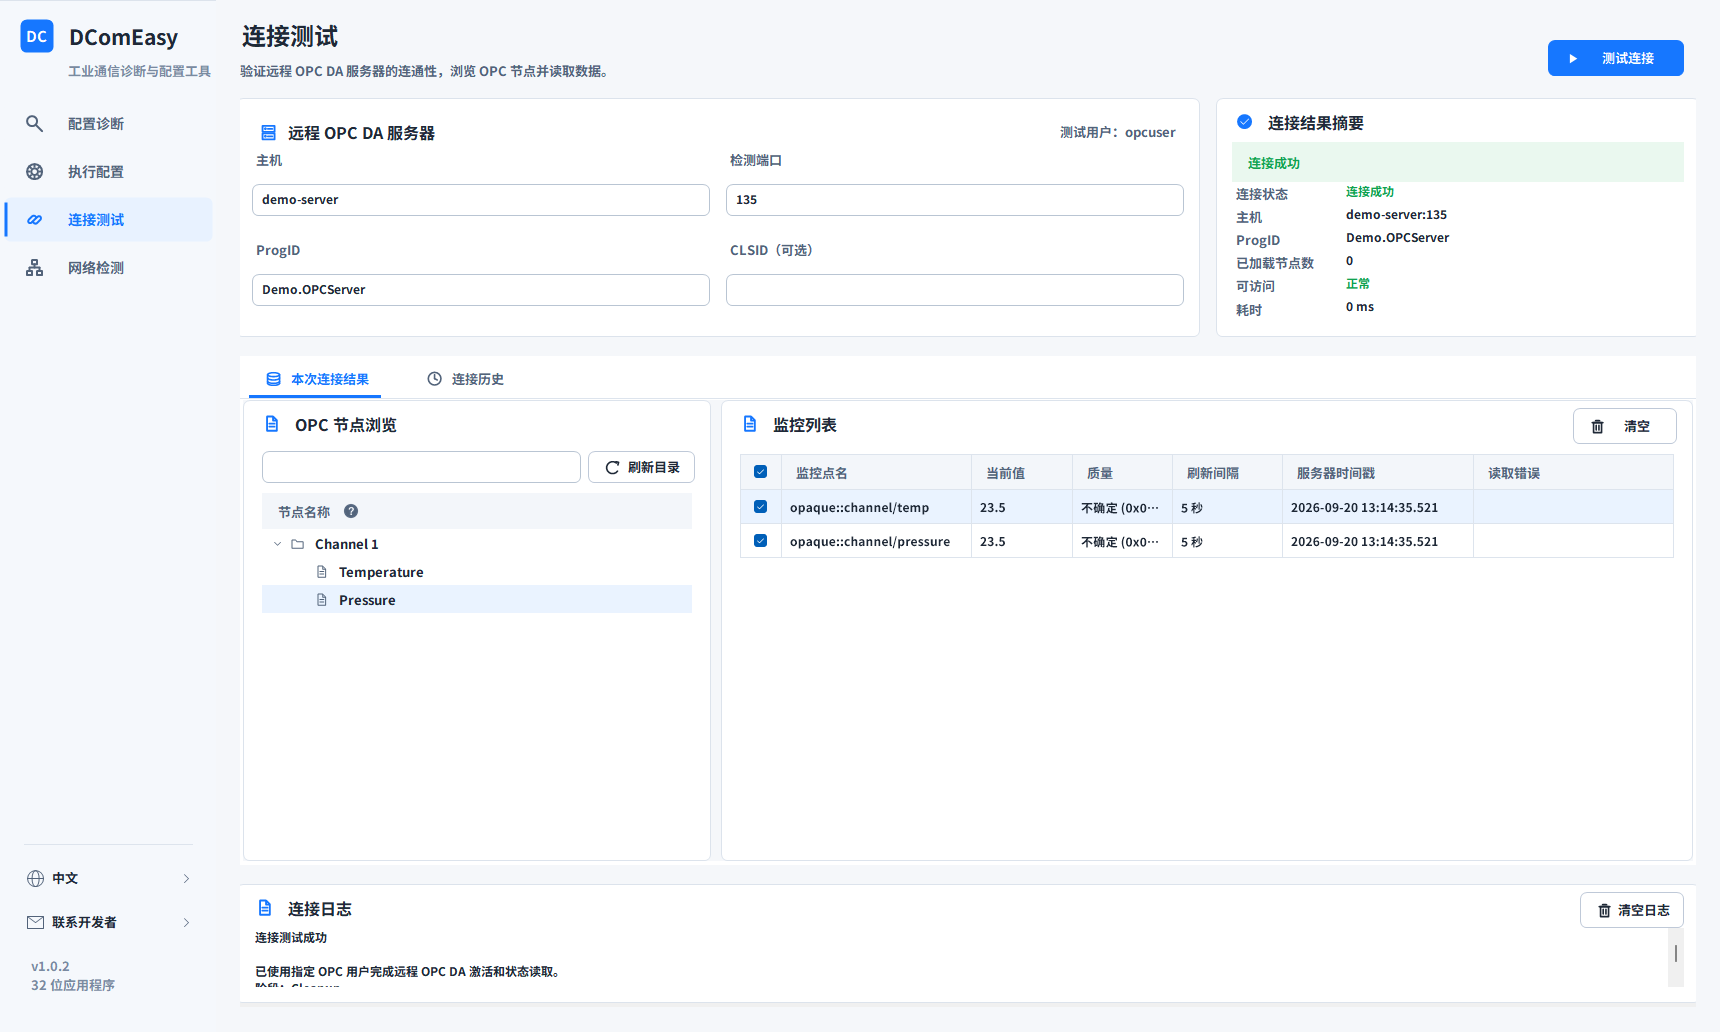
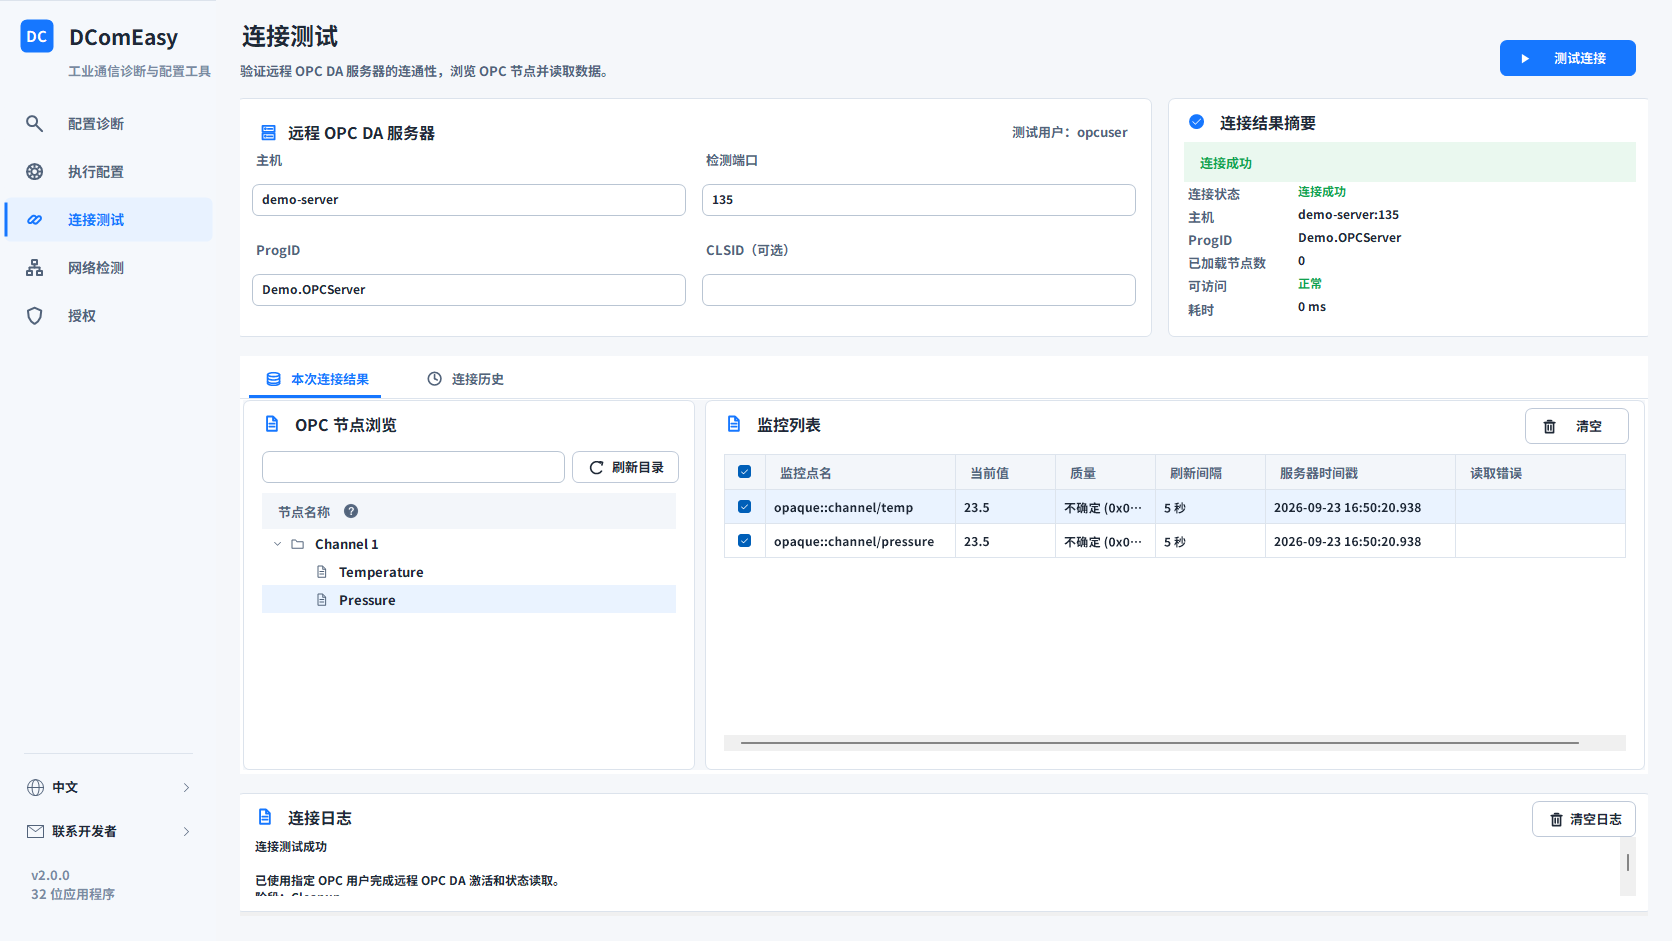
发布 v2.0.0 并更新中英文教程

diff --git a/README.en.md b/README.en.md
@@ -19,10 +19,10 @@ DComEasy is a Windows OPC DA / DCOM configuration and diagnostic tool for indust
 
 ## See it in action
 
-Start with diagnostics, validate or create the OPC user, preview and apply configuration, then test the connection, read items, and enable batch polling. The demo uses sample data and contains no real account or server information.
+Start with diagnostics, review licensing and edition features, validate or create the OPC user, preview and apply configuration, then test the connection, read items, and enable batch polling. The demo uses sample data and contains no real account, activation code, or server information.
 
 <p align="center">
-  <img src="assets/quick-start-en-US.gif" alt="DComEasy quick-start demo: diagnostics, user creation, configuration, connection, and monitoring" width="960">
+  <img src="assets/quick-start-en-US.gif" alt="DComEasy 2.0.0 quick-start demo: diagnostics, licensing, user validation, configuration, connection, and monitoring" width="960">
 </p>
 
 ## Features
@@ -38,6 +38,18 @@ Start with diagnostics, validate or create the OPC user, preview and apply confi
 - <img src="assets/icon-report.svg" width="20" height="20" alt=""> **Diagnostic reports**: export PDF or HTML for troubleshooting, handover, and archiving.
 - <img src="assets/icon-language.svg" width="20" height="20" alt=""> **Bilingual interface**: switch between Simplified Chinese and English in the sidebar; the application remembers your selection.
 
+## Offline licensing
+
+The client always uses offline licensing and does not require a website or an internet connection at the deployment site. Licensing is mandatory in every official release. An unactivated installation runs as the Free edition; a valid activation code enables the features assigned to Pro or Enterprise.
+
+| Edition | Activation | Current feature scope |
+|---|---|---|
+| Free | No code; the default client state | Diagnostics, user validation, change preview, basic OPC connection/browsing/single reads, network status checks, history, and logs; PDF reports include a Free watermark |
+| Pro | 32-character Pro activation code | All features, with watermark-free PDF and HTML reports |
+| Enterprise | 32-character Enterprise activation code | Currently the same as Pro, but backed by a separate entitlement set for future differentiation |
+
+An activation code contains eight groups of four characters and carries the edition, a unique license ID, a first-activation deadline, an optional usage expiry date, and an application-identity digest. The first-activation deadline restricts only activation on new devices; an activated device continues to use the separate usage-expiry rule.
+
 ## Requirements
 
 - Supports 64-bit Windows. DComEasy runs as a 32-bit process for compatibility with OPC DA and related COM components.
@@ -47,11 +59,27 @@ Start with diagnostics, validate or create the OPC user, preview and apply confi
 
 ## Download and installation
 
-1. Download the latest `DComEasy-Setup-v1.0.2.exe` from [Releases](https://github.com/Todayos/DComEasy-Releases/releases).
+1. Download the latest `DComEasy-Setup-v2.0.0.exe` from [Releases](https://github.com/Todayos/DComEasy-Releases/releases).
 2. Run the installer as an administrator.
 3. Start DComEasy from the Start menu and run it with administrator privileges when prompted.
 
+To install a newer release, close DComEasy and run the newer installer as an administrator without uninstalling first. The directory page defaults to the current installation; keep it for an in-place upgrade or choose another empty directory. License state, logs, connection history, and user-owned files are preserved.
+
 Use installers published through this repository's GitHub Releases. Do not download installers from unknown sources or copy only the application executable from an installation directory.
+
+After downloading, verify the installer's integrity in PowerShell:
+
+```powershell
+Get-FileHash .\DComEasy-Setup-v2.0.0.exe -Algorithm SHA256
+```
+
+The current official installer should produce:
+
+```text
[1 lines of base64/hex data omitted]
+```
+
+Publishing a SHA-256 checksum does not expose source code, licensing keys, or the activation-code generation method. It only helps confirm that a file was not damaged or replaced. A checksum alone does not authenticate the publisher: if both the installer and published checksum are replaced, the comparison can still pass. Download only from this repository's official Releases. Rebuilding an installer changes its checksum, so use the value published for the corresponding release.
 
 See the [user guide](docs/usage.en.md) for detailed instructions.
 
@@ -68,4 +96,4 @@ Include the DComEasy version, Windows version, reproduction steps, expected resu
 
 Copyright © 2026 Todayos. All rights reserved.
 
-DComEasy is proprietary software. The software may be installed and used, including at work. Public access to this repository does not grant source modification, resale, or redistribution rights. The license terms included with each release package govern use of the software. Third-party components remain subject to their respective licenses.
+DComEasy is proprietary software. Every official release uses offline licensing. An unactivated installation provides only the Free edition's basic features; Pro and Enterprise features require a valid activation code. Public access to this repository does not grant source modification, resale, or redistribution rights. The license terms included with each release package govern use of the software. Third-party components remain subject to their respective licenses.

diff --git a/README.md b/README.md
@@ -19,10 +19,10 @@ DComEasy 是面向工业现场部署、调试和维护的 Windows OPC DA / DCOM 
 
 ## 使用效果
 
-从配置诊断开始，验证或创建 OPC 用户，预览并执行配置，再测试连接、读取点位并开启批量刷新。演示使用示例数据，不包含真实账号或服务器信息。
+从配置诊断开始，查看授权与版本功能，验证或创建 OPC 用户，预览并执行配置，再测试连接、读取点位并开启批量刷新。演示使用示例数据，不包含真实账号、激活码或服务器信息。
 
 <p align="center">
-  <img src="assets/quick-start-zh-CN.gif" alt="DComEasy 快速使用演示：诊断、创建用户、执行配置、连接和监控" width="960">
+  <img src="assets/quick-start-zh-CN.gif" alt="DComEasy 2.0.0 快速使用演示：诊断、授权、用户验证、执行配置、连接和监控" width="960">
 </p>
 
 ## 核心功能
@@ -38,6 +38,18 @@ DComEasy 是面向工业现场部署、调试和维护的 Windows OPC DA / DCOM 
 - <img src="assets/icon-report.svg" width="20" height="20" alt=""> **诊断报告**：导出 PDF 或 HTML，便于现场交付、问题排查和归档。
 - <img src="assets/icon-language.svg" width="20" height="20" alt=""> **双语界面**：支持简体中文与英文，可在侧栏切换并保留选择。
 
+## 离线授权
+
+客户端始终启用离线授权体系，不依赖官网或现场联网。所有正式发布版本都使用该授权体系；未激活时为 Free 基础版，输入有效激活码后按授权类型启用 Pro 或企业版功能。
+
+| 类型 | 激活要求 | 当前功能范围 |
+|---|---|---|
+| Free | 无激活码，客户端默认状态 | 配置诊断、用户验证、变更预览、OPC 基础连接／浏览／单点读取、网络状态检查、历史与日志；PDF 带 Free 水印 |
+| Pro | 32 位 Pro 激活码 | 全部功能，PDF／HTML 报告无水印 |
+| Enterprise | 32 位企业版激活码 | 当前与 Pro 相同，但使用独立权限集合，便于后续分别调整 |
+
+激活码由 8 组、每组 4 个字符组成，并包含授权类型、唯一授权编号、首次激活截止日期、可选的使用到期日期及申请信息摘要。首次激活截止日期只限制新设备首次激活；已激活设备继续按照使用到期日期校验。
+
 ## 系统要求
 
 - 支持 64 位 Windows；DComEasy 以 32 位进程运行，以兼容 OPC DA 及相关 COM 组件。
@@ -47,11 +59,27 @@ DComEasy 是面向工业现场部署、调试和维护的 Windows OPC DA / DCOM 
 
 ## 下载与安装
 
-1. 前往 [Releases](https://github.com/Todayos/DComEasy-Releases/releases) 下载最新的 `DComEasy-Setup-v1.0.2.exe`。
+1. 前往 [Releases](https://github.com/Todayos/DComEasy-Releases/releases) 下载最新的 `DComEasy-Setup-v2.0.0.exe`。
 2. 以管理员身份运行安装程序。
 3. 从开始菜单启动 DComEasy，并按提示以管理员身份运行。
 
+安装新版时无需先卸载旧版。关闭 DComEasy 后，以管理员身份运行新版安装包；目录页默认显示原安装位置，保留该目录即可原地升级，也可选择其他空目录。授权状态、日志、连接历史和用户自有文件会保留。
+
 安装包来自本仓库的 GitHub Releases。请勿从不明来源下载安装包，也不要只复制安装目录中的单个 EXE 文件。
+
+下载后可在 PowerShell 中校验安装包完整性：
+
+```powershell
+Get-FileHash .\DComEasy-Setup-v2.0.0.exe -Algorithm SHA256
+```
+
+当前正式安装包的 SHA-256 应为：
+
+```text
[1 lines of base64/hex data omitted]
+```
+
+公开 SHA-256 不会泄露源码、授权密钥或激活码生成方法，它只用于确认文件未损坏或被替换。SHA-256 本身不能独立证明发布者身份；如果安装包和校验值同时被替换，比较仍可能通过，因此请只从本仓库的正式 Release 下载。安装包重新构建后校验值会变化，应以对应 Release 公布的值为准。
 
 更详细的操作步骤见[使用指南](docs/usage.md)。
 
@@ -68,4 +96,4 @@ DComEasy 是面向工业现场部署、调试和维护的 Windows OPC DA / DCOM 
 
 Copyright © 2026 Todayos. All rights reserved.
 
-DComEasy 为专有软件。允许安装和使用，包括工作场景；本仓库公开可见不代表授予源码修改、转售或再分发权利。软件的具体使用条件以发布包中附带的许可条款为准；第三方组件适用其各自的许可条款。
+DComEasy 为专有软件。所有正式发布版本均启用离线授权机制；未激活时仅提供 Free 基础功能，Pro 和企业版功能必须使用有效激活码。本仓库公开可见不代表授予源码修改、转售或再分发权利。软件的具体使用条件以发布包中附带的许可条款为准；第三方组件适用其各自的许可条款。

diff --git a/docs/usage.en.md b/docs/usage.en.md
@@ -11,6 +11,8 @@
 
 The installer includes the required .NET runtime. Do not copy only `DComEasy.exe` from the installation directory because required components may be missing.
 
+To install a newer release, close DComEasy and run the newer installer as an administrator without uninstalling first. The directory page defaults to the current installation; keep it for an in-place upgrade or choose another empty directory. When another directory is selected, shortcuts point to the new version and files in the previous directory are not deleted. License state, logs, connection history, and user-owned files are preserved.
+
 ## Configuration diagnostics
 
 Open **Diagnostics** and select **Run Check**. DComEasy inspects local OPC DA / DCOM settings, components, permissions, and protocols. Diagnosis does not change system settings or start services.
@@ -51,9 +53,9 @@ Open **Network**, enter a host and port, and start the check. Remote checks cove
 
 You can add local TCP or UDP inbound rules in batches. A firewall rule permits traffic but does not start the service that listens on the port.
 
-## Free access and developer contact
+## Offline licensing and developer contact
 
-Version 1.0.2 provides all features without an account, activation code, online verification, or trial expiry. The sidebar Contact entry shows the GitHub address and email, available to view and copy offline.
+DComEasy 2.0.0 always uses offline licensing and does not require network access at the deployment site. An unactivated installation provides the Free edition's basic features; Pro and Enterprise features require a valid 32-character activation code. The sidebar License page shows the current status, edition comparison, and activation entry; Contact provides the GitHub address and email.
 
 ## Troubleshooting
 

diff --git a/docs/usage.md b/docs/usage.md
@@ -11,6 +11,8 @@
 
 安装包已包含所需的 .NET 运行时。请勿只复制安装目录中的 `DComEasy.exe`，否则依赖组件可能不完整。
 
+安装新版时无需先卸载旧版。先关闭 DComEasy，再以管理员身份运行新版安装包；目录页默认显示原安装位置，保留该目录即可原地升级，也可选择其他空目录。选择新目录后，快捷方式会指向新版本，旧目录文件不会自动删除。授权状态、日志、连接历史和用户自有文件会保留。
+
 ## 配置诊断
 
 进入“配置诊断”，点击“开始诊断”。程序会读取本机 OPC DA / DCOM 相关状态，包括基础配置、组件、权限和协议设置。诊断本身不会修改系统配置或启动服务。
@@ -57,9 +59,9 @@ DCOM 设置会影响系统安全和远程访问。执行前应核对目标环境
 
 可以批量添加本机 TCP 或 UDP 入站规则。添加规则只代表防火墙允许该端口，相关服务仍需处于监听状态。
 
-## 免费使用与联系开发者
+## 离线授权与联系开发者
 
-v1.0.2 全部功能免费开放，无需账号、激活码或联网验证，不设试用到期时间。侧栏“联系开发者”提供 GitHub 地址和邮箱，可离线查看并复制。
+DComEasy 2.0.0 始终启用离线授权，不要求现场联网。未激活时使用 Free 基础功能；Pro 和企业版功能需要有效的 32 位激活码。侧栏“授权”页面显示当前授权状态、版本功能对比和激活入口；“联系开发者”提供 GitHub 地址和邮箱。
 
 ## 常见问题
 

diff --git a/docs/free-trial.en.md b/docs/free-trial.en.md
@@ -1,7 +1,7 @@
-# Free access
+# Offline licensing
 
 [Home](../README.en.md) · [简体中文](free-trial.md)
 
-Version 1.0.2 provides all features free of charge. No trial request or activation code is required, and there is no trial expiry. Download the complete installer from [Releases](https://github.com/Todayos/DComEasy-Releases/releases/latest).
+DComEasy 2.0.0 always uses offline licensing and does not require network access at the deployment site. An unactivated installation provides the Free edition's basic features; Pro and Enterprise features require a valid 32-character activation code. The first-activation deadline and usage expiry date are independent, and a permanent license may omit the usage expiry. Download the complete installer from [Releases](https://github.com/Todayos/DComEasy-Releases/releases/latest).
 
-Contact: wangzd1618@gmail.com. Any pricing changes for future versions will be announced separately.
+For license requests or questions, contact wangzd1618@gmail.com. Pro requests require an authorization email; Enterprise requests require an authorization email, legal company name, and organization code.

diff --git a/docs/free-trial.md b/docs/free-trial.md
@@ -1,7 +1,7 @@
-# 免费使用说明
+# 离线授权说明
 
 [返回首页](../README.md) · [English](free-trial.en.md)
 
-v1.0.2 已开放全部功能免费使用，无需再申请试用或激活码，不设试用到期时间。请从 [Releases](https://github.com/Todayos/DComEasy-Releases/releases/latest) 下载完整安装包。
+DComEasy 2.0.0 始终启用离线授权，不要求部署现场联网。未激活时可使用 Free 基础功能；Pro 和企业版功能需要有效的 32 位激活码。首次激活截止日期与使用到期日期独立，永久授权可省略使用到期日期。请从 [Releases](https://github.com/Todayos/DComEasy-Releases/releases/latest) 下载完整安装包。
 
-联系开发者：wangzd1618@gmail.com。未来版本如调整收费方式，将另行说明。
+申请或咨询授权：wangzd1618@gmail.com。Pro 申请需提供授权邮箱；企业版申请需提供授权邮箱、公司法定名称和组织机构代码。

diff --git a/assets/screenshots/README.md b/assets/screenshots/README.md
@@ -1,7 +1,7 @@
 # 截图来源
 
-- 版本：DComEasy v1.0.2，授权要求关闭。
+- 版本：DComEasy v2.0.0。
 - 来源：当前应用实际渲染界面；示例诊断、用户验证和 OPC 节点数据，不代表真实现场检测结果。
-- 语言：简体中文、英文，各 5 张，1720 × 1032。
-- 采集：主项目 UI 验证程序的 `--release-screenshots` 模式，在 `DComEasy.SidebarValidation` 隔离桌面运行；不会连接现场服务器或写入系统配置。
-- 页面：配置诊断、执行配置、连接与节点浏览、单次读取、双点位 5 秒刷新。
+- 语言：简体中文、英文，各 6 张，1672 × 941。
+- 采集：主项目 UI 验证程序的离屏发布截图模式；不会连接现场服务器或写入系统配置。
+- 页面：配置诊断、授权与版本功能、执行配置、连接与节点浏览、单次读取、双点位 5 秒刷新。
